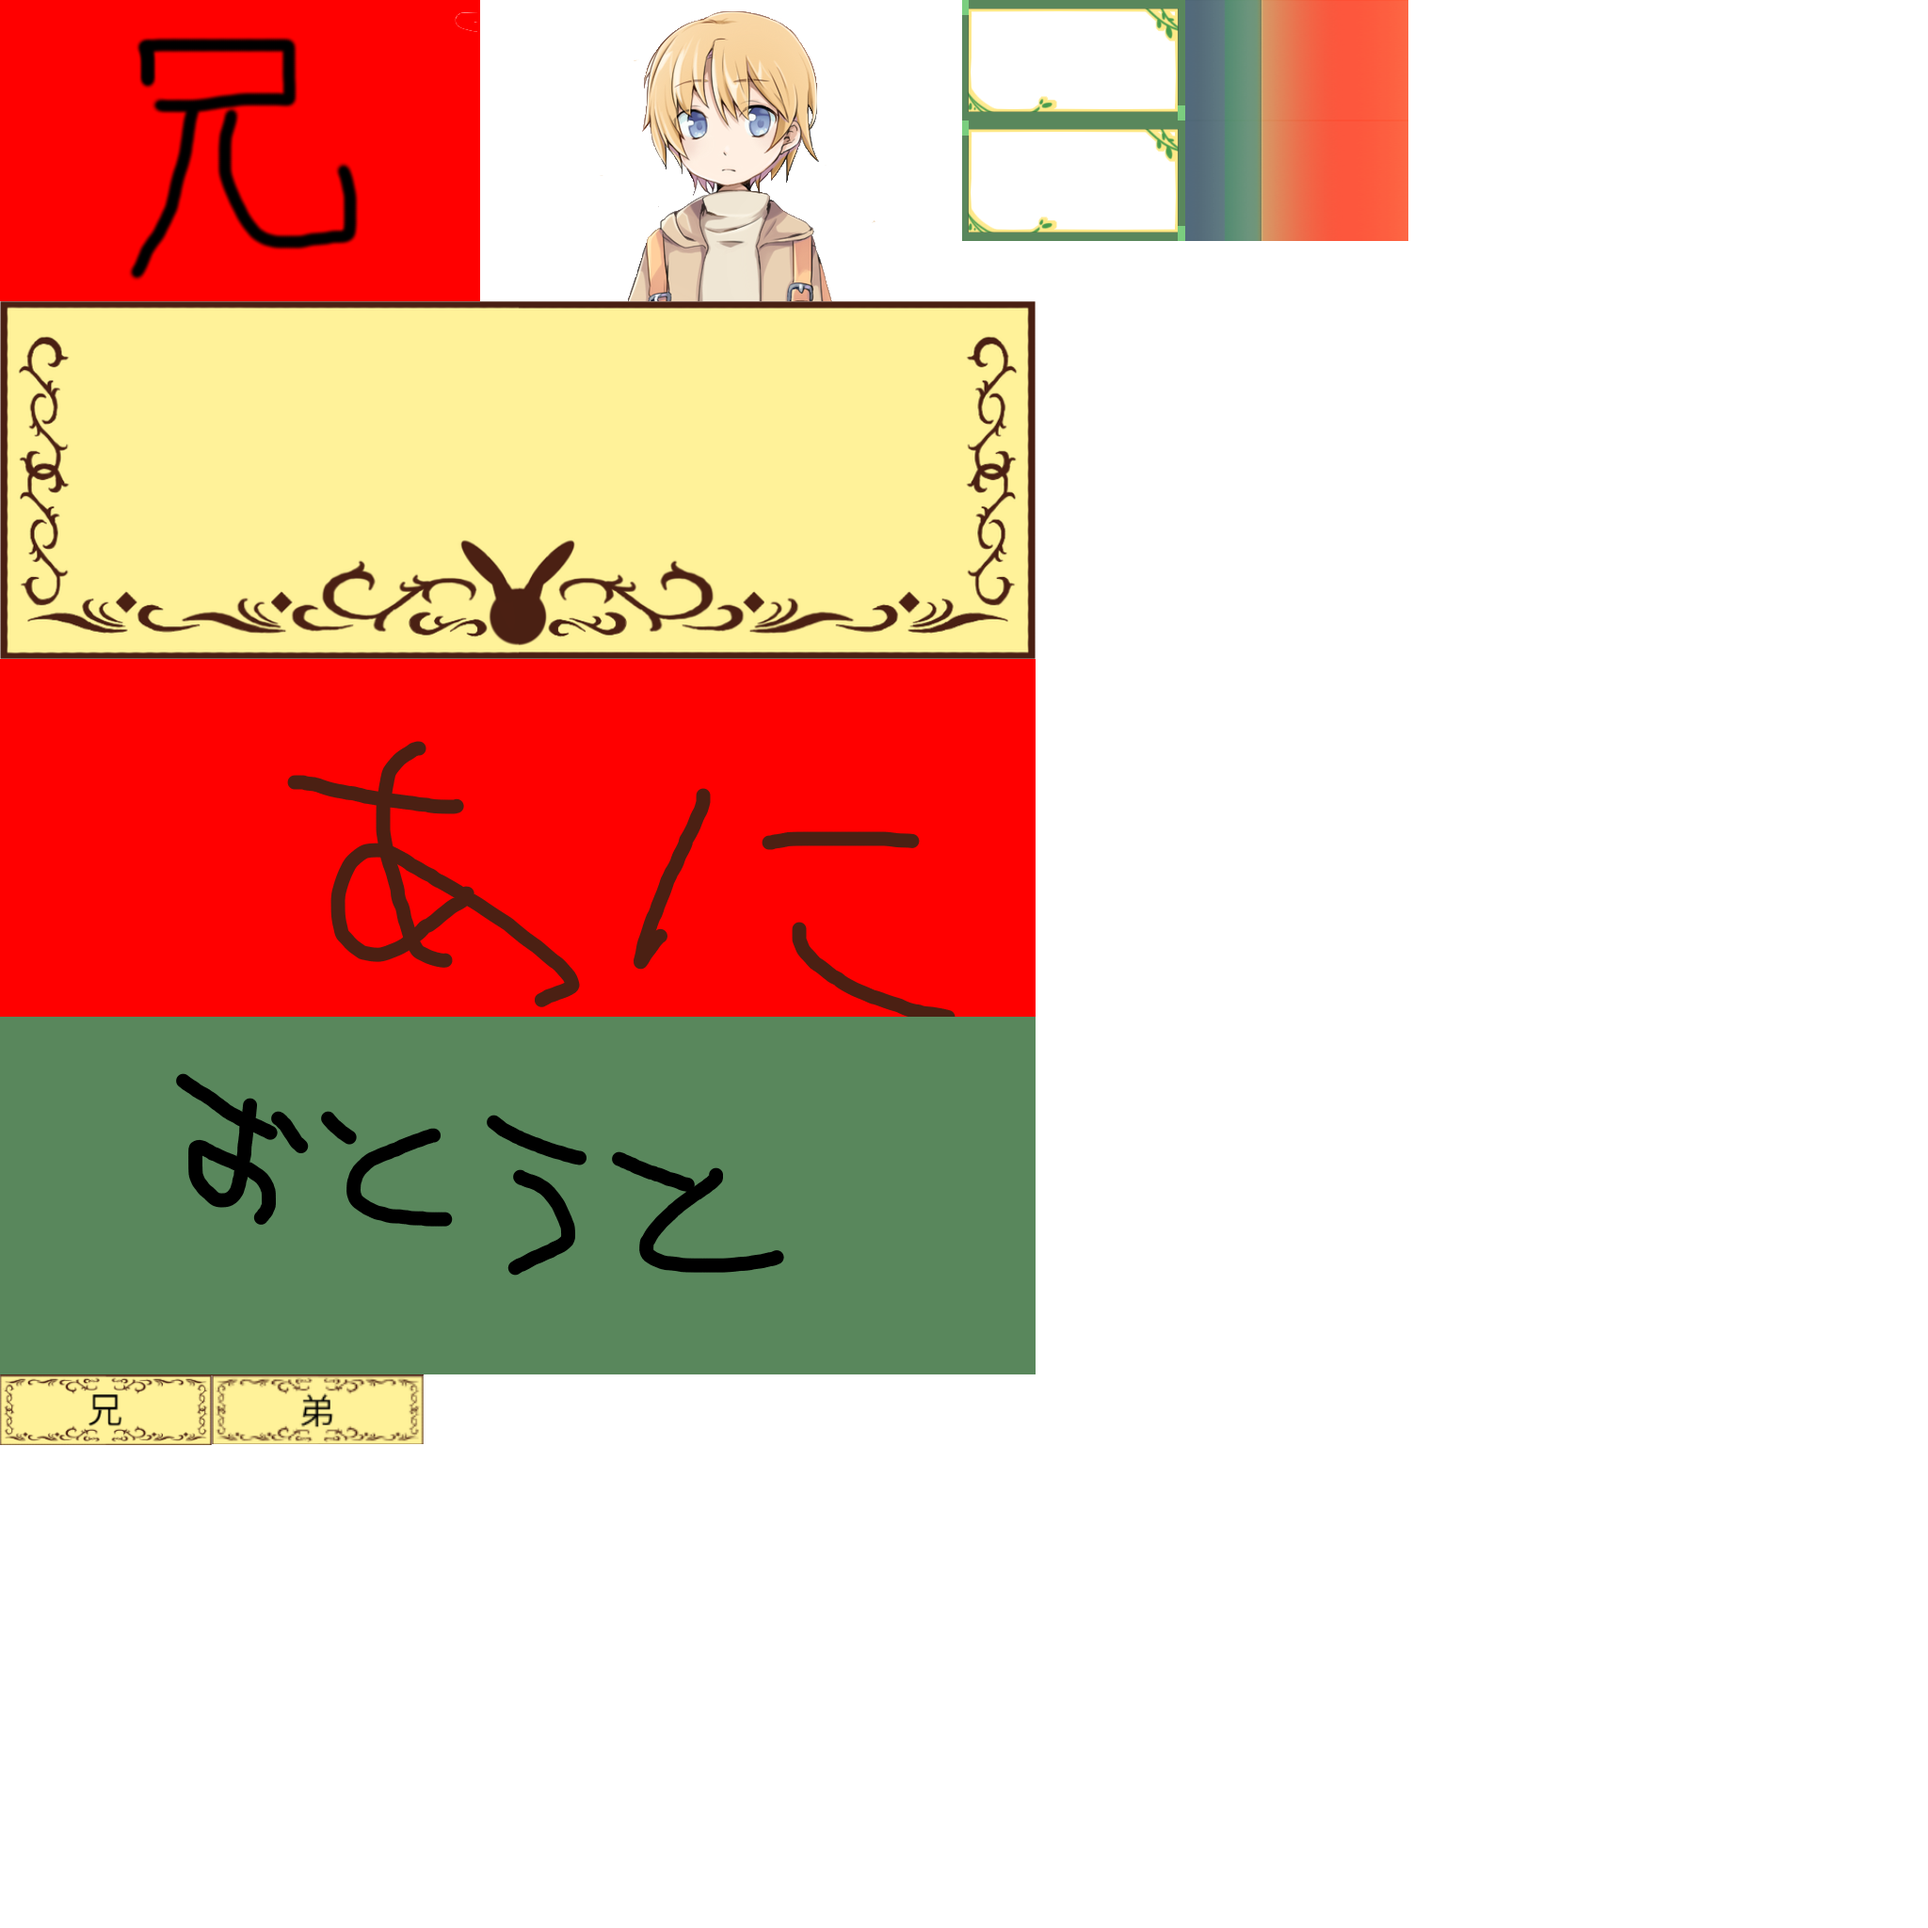
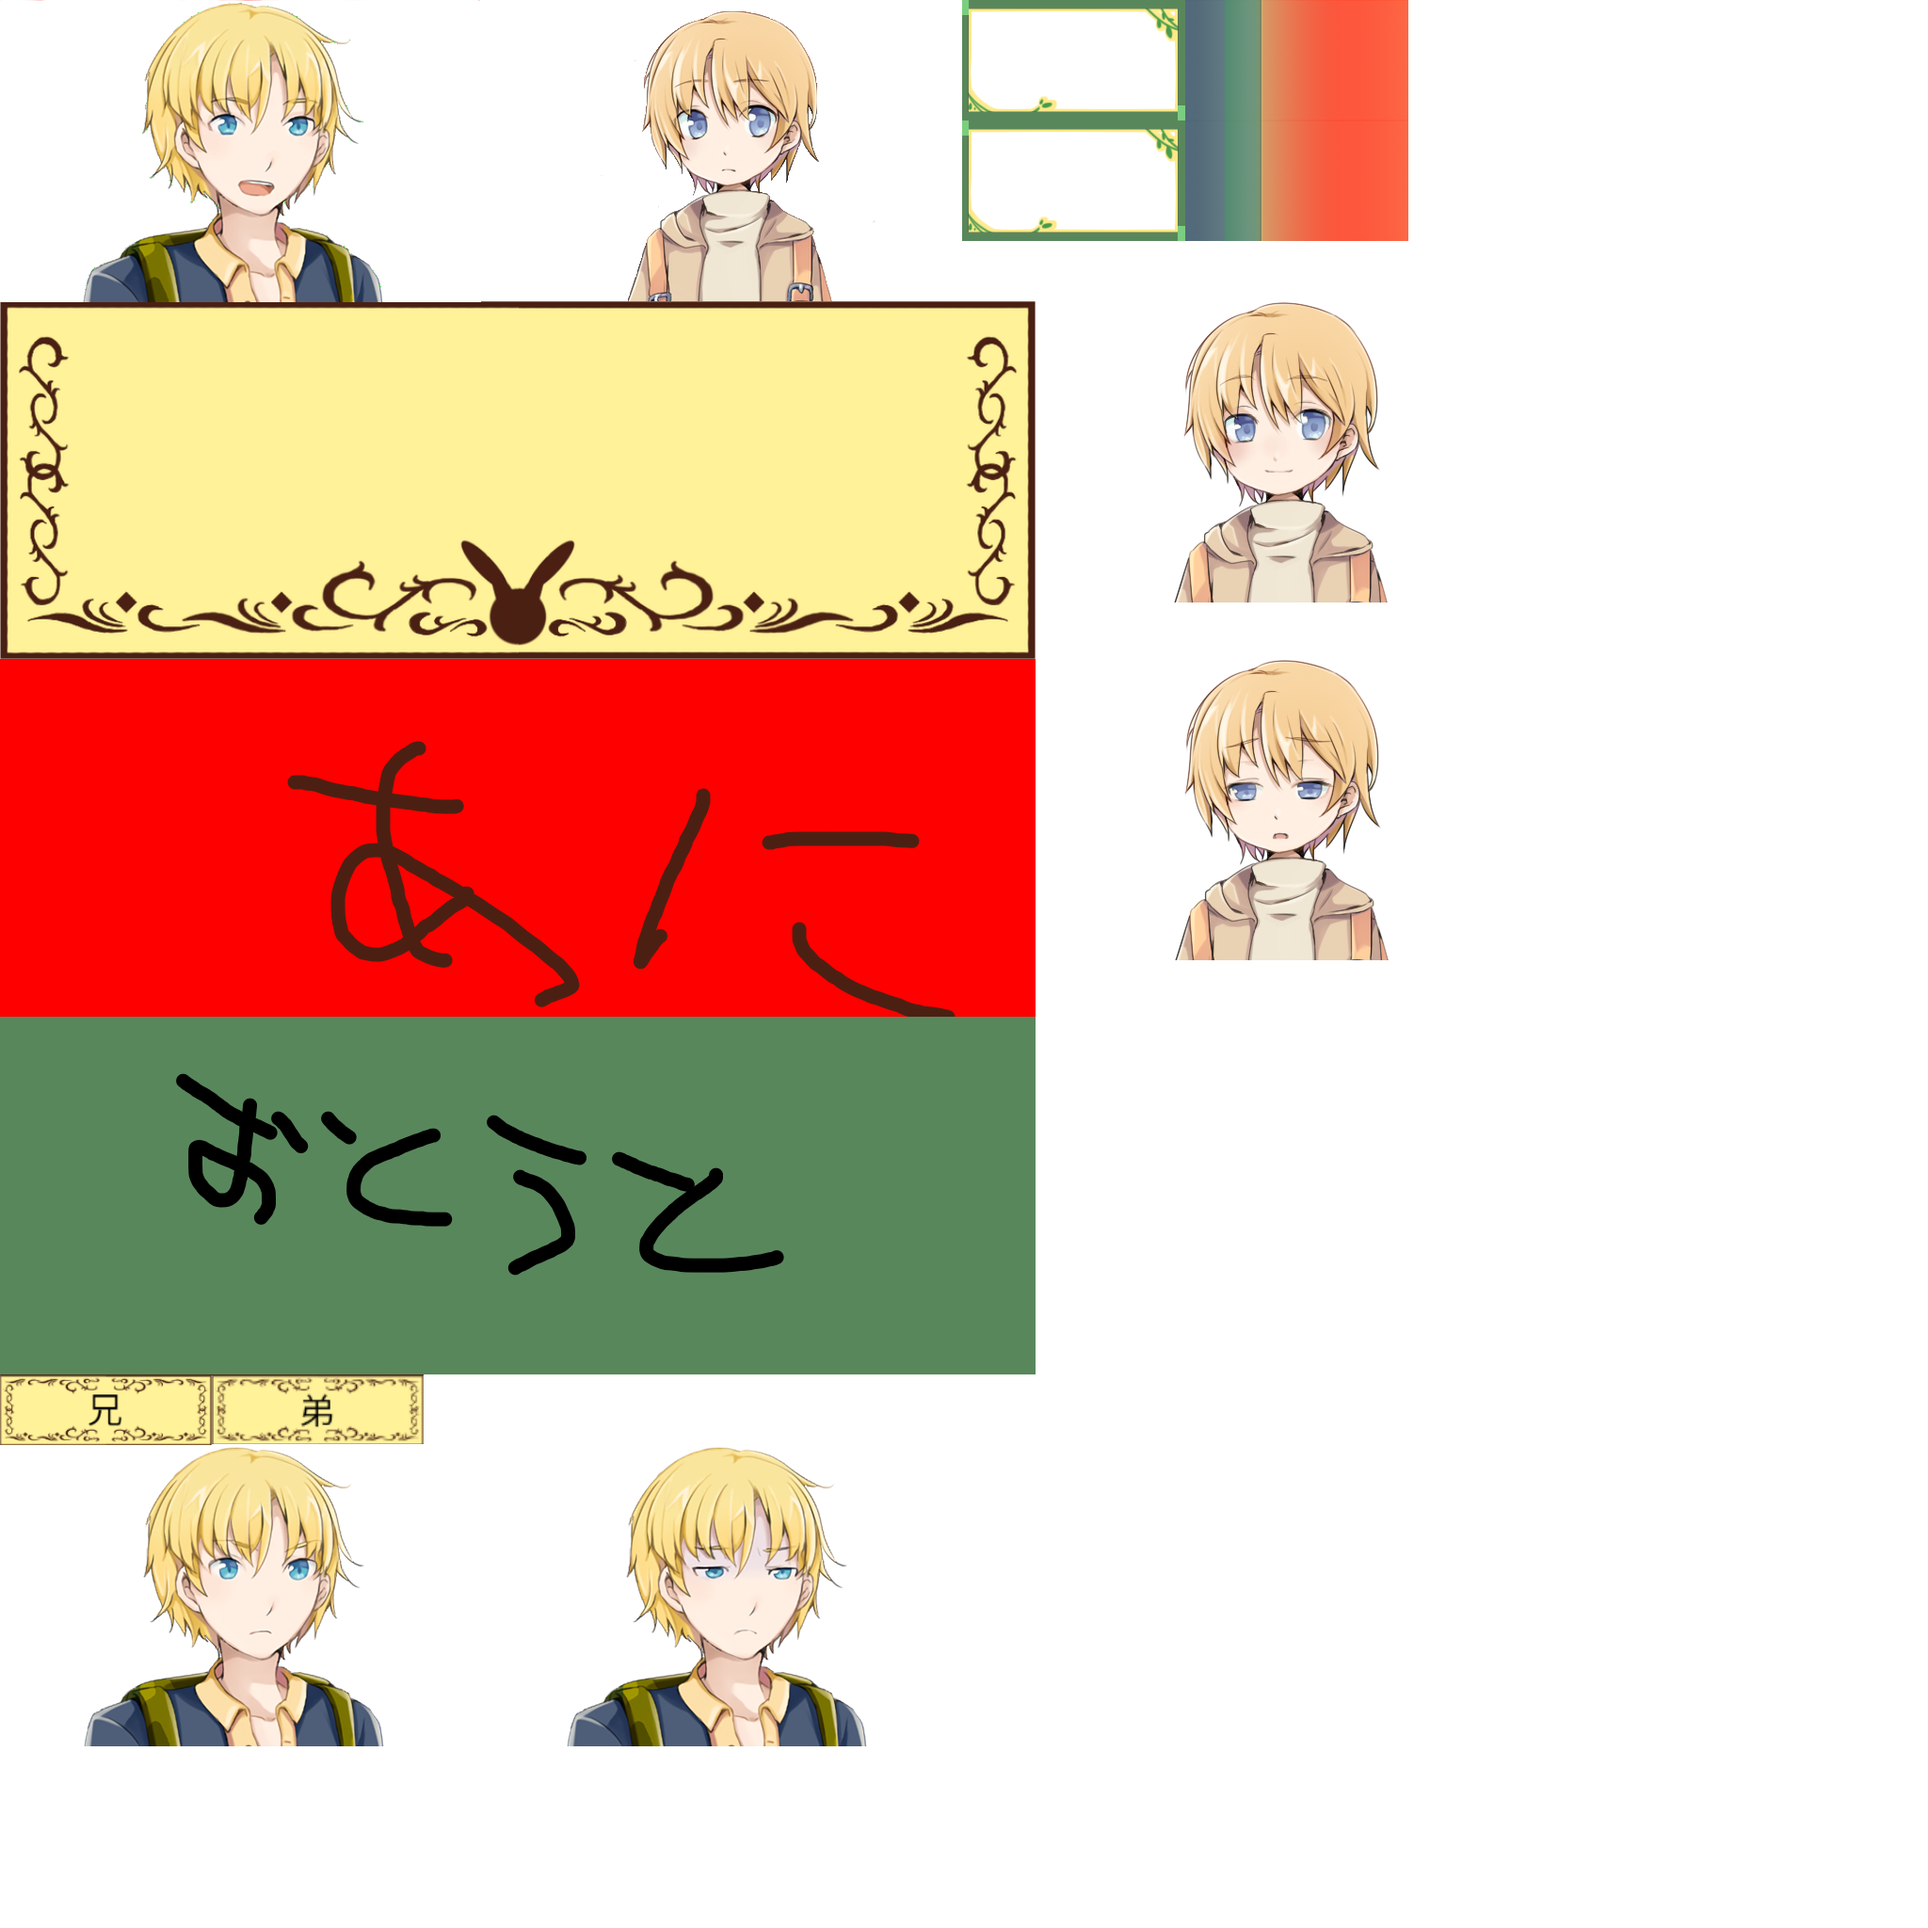
表情マージ

diff --git a/Brother/Brother/PlayerUI.cpp b/Brother/Brother/PlayerUI.cpp
@@ -90,6 +90,8 @@ void PlayerUI::Draw()
 	{
 		m_pLibrary->MakePosition(m_face1Id, &m_FacialExpression);
 		m_pLibrary->MakeVertex(m_face1Id, faceUi);
+		m_FacialExpression.h -= 200;
+		m_FacialExpression.w -= 250;
 		m_pLibrary->xySet(m_FacialExpression, faceUi);
 		m_pLibrary->DrawTexture(TEX_UI, faceUi);
 	}
@@ -98,6 +100,8 @@ void PlayerUI::Draw()
 	{
 		m_pLibrary->MakePosition(m_face2Id, &m_FacialExpression);
 		m_pLibrary->MakeVertex(m_face2Id, faceUi);
+		m_FacialExpression.h -= 200;
+		m_FacialExpression.w -= 250;
 		m_pLibrary->xySet(m_FacialExpression, faceUi);
 		m_pLibrary->DrawTexture(TEX_UI, faceUi);
 	}
@@ -106,6 +110,8 @@ void PlayerUI::Draw()
 	{
 		m_pLibrary->MakePosition(m_face3Id, &m_FacialExpression);
 		m_pLibrary->MakeVertex(m_face3Id, faceUi);
+		m_FacialExpression.h -= 200;
+		m_FacialExpression.w -= 250;
 		m_pLibrary->xySet(m_FacialExpression, faceUi);
 		m_pLibrary->DrawTexture(TEX_UI, faceUi);
 	}

diff --git a/Brother/Brother/ClientYoungerBrother.cpp b/Brother/Brother/ClientYoungerBrother.cpp
@@ -34,7 +34,7 @@ Player(pLibrary, pPadState, pPadOldState, pButtonState, pCollisionChecker, pDraw
 	m_pDrawPositionSetter->DrawPositionXSet(m_PlayerX);
 	m_pDrawPositionSetter->DrawPositionYSet(m_PlayerY);
 
-	m_pPlayerUI = new PlayerUI(m_pLibrary, m_Hp, YOUNGERBROTHER_LIFEFRAME, YOUNGERBROTHER_LIFEBAR, SWITCH_RED_01, SWITCH_YELLOW_01, SWITCH_BLUE_01, YOUNGERBROTHER_UI_POSX, YOUNGERBROTHER_UI_POSY, YOUNGERBROTHERFACEX, YOUNGERBROTHERFACEY);
+	m_pPlayerUI = new PlayerUI(m_pLibrary, m_Hp, YOUNGERBROTHER_LIFEFRAME, YOUNGERBROTHER_LIFEBAR, YOUNGERBRTOHER_FACE_01, YOUNGERBRTOHER_FACE_02, YOUNGERBRTOHER_FACE_03, YOUNGERBROTHER_UI_POSX, YOUNGERBROTHER_UI_POSY, YOUNGERBROTHERFACEX, YOUNGERBROTHERFACEY);
 
 }
 

diff --git a/Brother/Brother/ServerYoungerBrother.cpp b/Brother/Brother/ServerYoungerBrother.cpp
@@ -33,7 +33,7 @@ m_StandUpTime(0)
 	m_Hp = YOUNGERBROTHER_HP;
 
 	
-	m_pPlayerUI = new PlayerUI(m_pLibrary, m_Hp, YOUNGERBROTHER_LIFEFRAME, YOUNGERBROTHER_LIFEBAR, SWITCH_RED_01, SWITCH_YELLOW_01, SWITCH_BLUE_01, YOUNGERBROTHER_UI_POSX, YOUNGERBROTHER_UI_POSY, YOUNGERBROTHERFACEX, YOUNGERBROTHERFACEY);
+	m_pPlayerUI = new PlayerUI(m_pLibrary, m_Hp, YOUNGERBROTHER_LIFEFRAME, YOUNGERBROTHER_LIFEBAR, YOUNGERBRTOHER_FACE_01, YOUNGERBRTOHER_FACE_02, YOUNGERBRTOHER_FACE_03, YOUNGERBROTHER_UI_POSX, YOUNGERBROTHER_UI_POSY, YOUNGERBROTHERFACEX, YOUNGERBROTHERFACEY);
 }
 
 

diff --git a/Brother/Brother/Tex.h b/Brother/Brother/Tex.h
@@ -191,6 +191,16 @@ enum GAME_VERTEXINFO_ID
 	CHAR_TEXTBOX,
 	BROTHER_NAMEBOX,
 	YOUNGERBROTHER_NAMEBOX,
+
+	BRTOHER_FACE_01,
+	BRTOHER_FACE_02,
+	BRTOHER_FACE_03,
+
+	YOUNGERBRTOHER_FACE_01,
+	YOUNGERBRTOHER_FACE_02,
+	YOUNGERBRTOHER_FACE_03,
+
+
 	
 	GAME_VERTEXINFO_MAX
 };

diff --git a/Brother/Brother/SceneManager.cpp b/Brother/Brother/SceneManager.cpp
@@ -21,7 +21,8 @@ m_pLibrary(pLibrary),
 m_NextScene(SCENE_NONE),
 m_hWnd(hWnd)
 {
-	m_pScene = new LogoScene(m_pLibrary);
+	m_pScene = new ClientGameScene(m_pLibrary, m_hWnd, m_pIPadd, &m_isGameClear);
+
 
 	m_pLibrary->RenderInit();
 }
